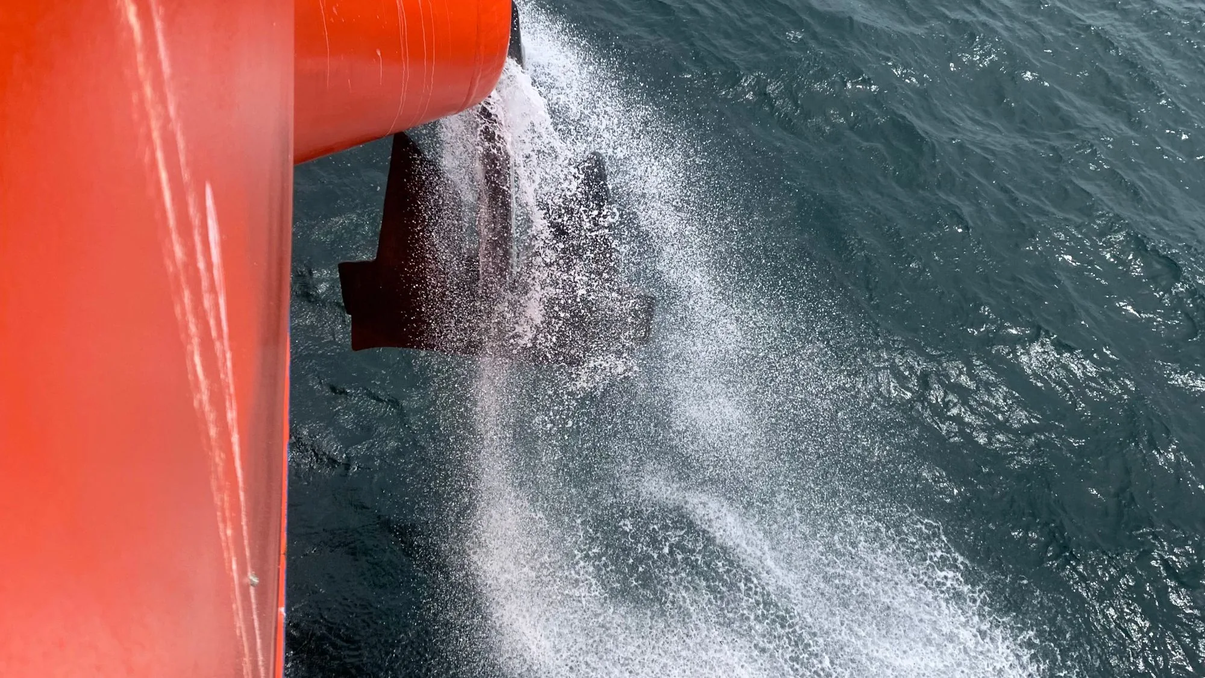
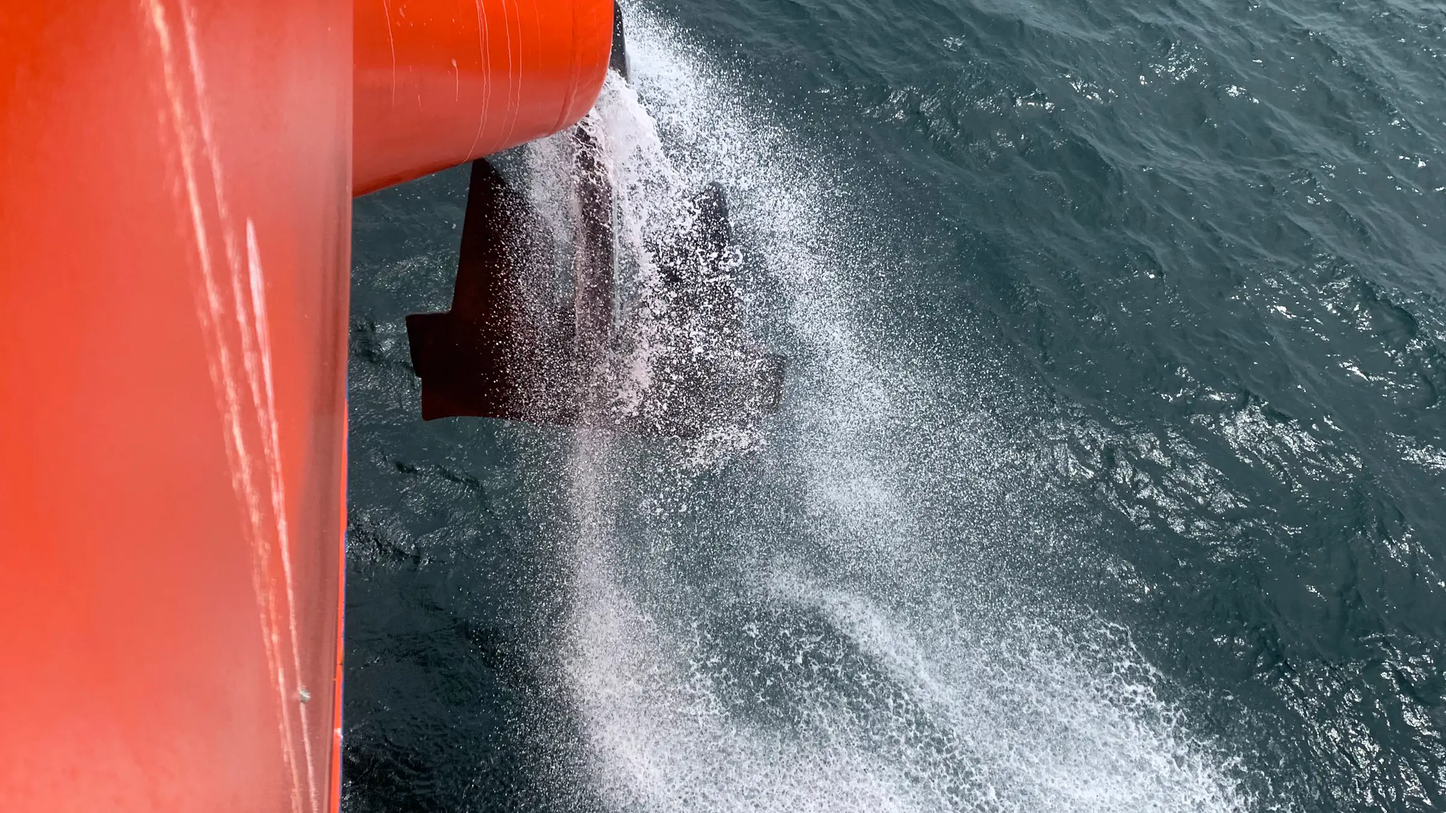
Sharper About us and Stakeholders heroes from originals; vessel sunset photo for Environmental

diff --git a/src/content/sustainability.ts b/src/content/sustainability.ts
@@ -127,7 +127,7 @@ export const esgPage = {
       "Reducing the impact of activities directly controlled by Torvald Klaveness.",
     ],
     image: esgEnvironmentalImage,
-    imageAlt: "Model of a Klaveness vessel with the K funnel mark, colleagues in a meeting behind it",
+    imageAlt: "The deck of a Klaveness vessel stretching out to the bow at sunset, over an orange sea",
   },
   social: {
     label: "Social",

diff --git a/src/app/sustainability/stakeholders/page.tsx b/src/app/sustainability/stakeholders/page.tsx
@@ -36,6 +36,7 @@ export default function StakeholdersPage() {
         image={hero.image}
         nextId="working-with-stakeholders"
         imagePosition="50% 30%"
+        quality={90}
       />
 
       {/*

diff --git a/src/app/about/about-us/page.tsx b/src/app/about/about-us/page.tsx
@@ -32,6 +32,7 @@ export default function AboutUsPage() {
         image={hero.image}
         nextId="who-we-are"
         imagePosition="50% 60%"
+        quality={90}
       />
 
       {/* Who we are */}
